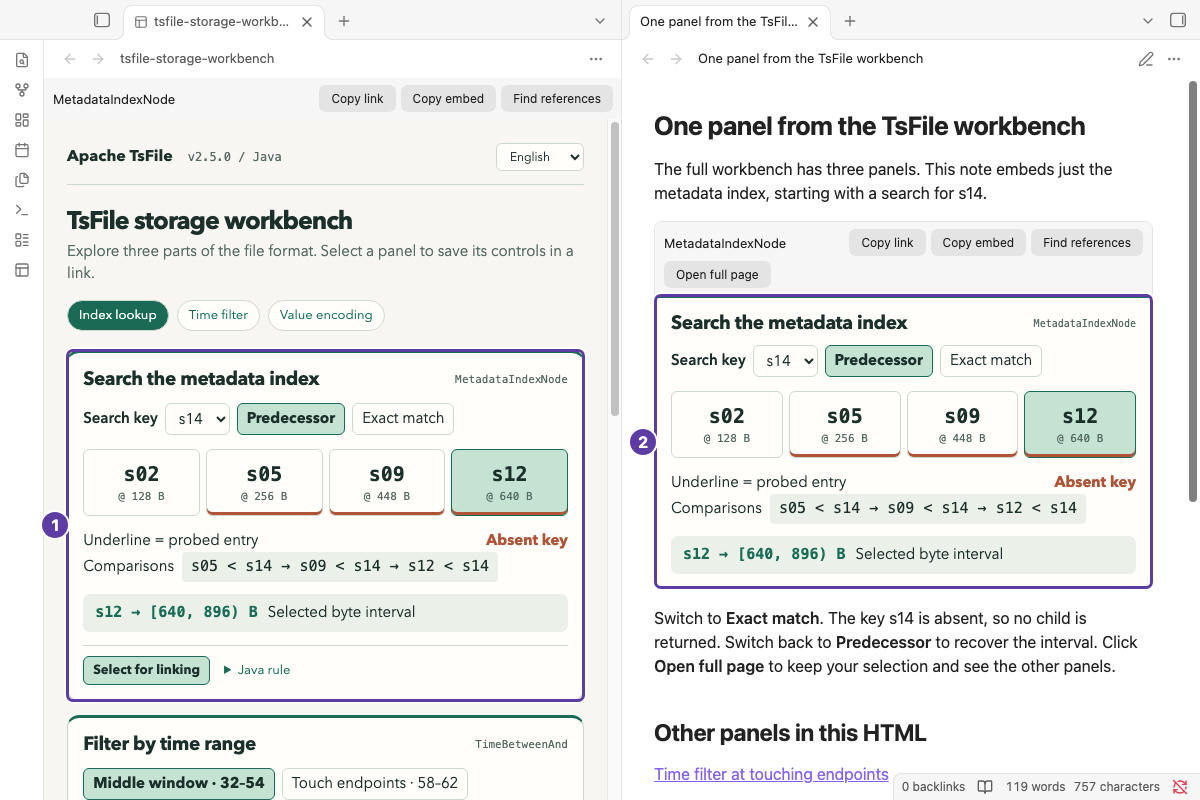
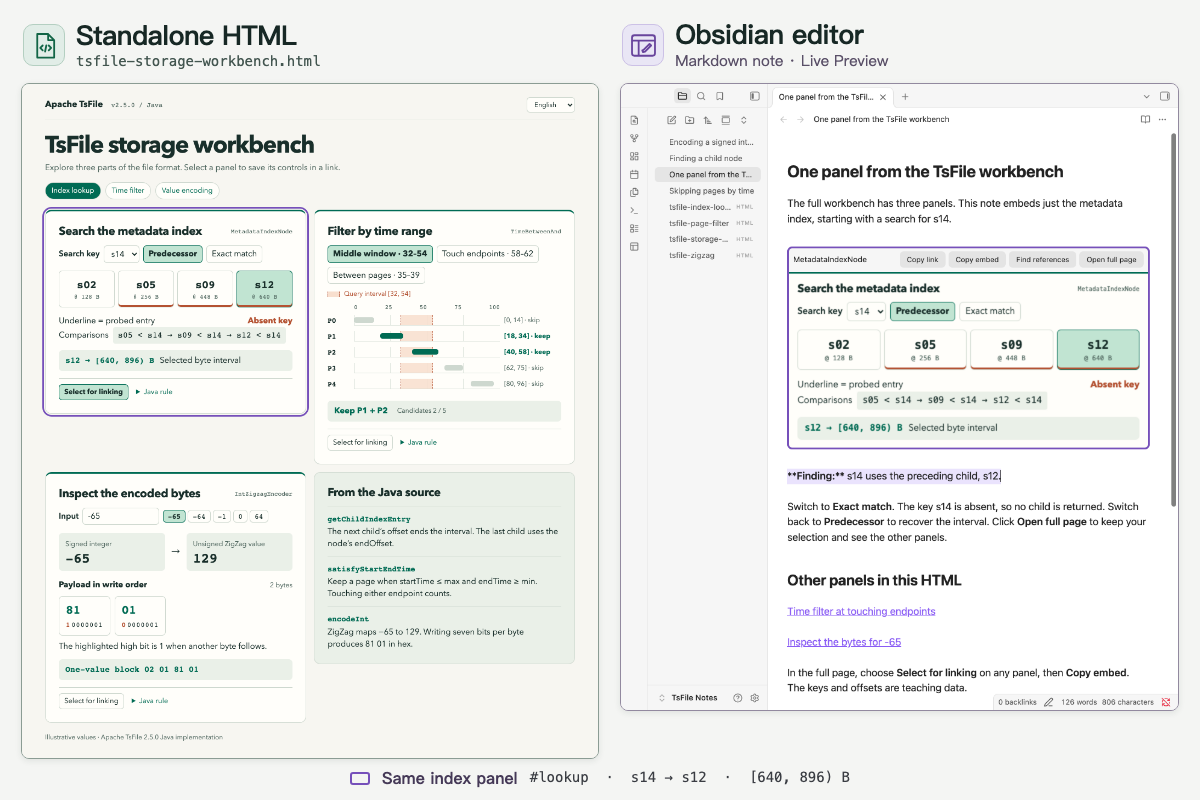
Show the complete HTML workbench beside an editable Obsidian note

diff --git a/examples/tsfile/tsfile-storage-workbench.html b/examples/tsfile/tsfile-storage-workbench.html
@@ -656,6 +656,34 @@
         display: none
       }
 
+      .source-notes {
+        padding: clamp(12px, 2.6vw, 24px);
+        border: 1px solid var(--line);
+        border-radius: 12px;
+        background: var(--soft)
+      }
+
+      .source-notes h2 {
+        font-size: clamp(19px, 2vw, 25px)
+      }
+
+      .source-notes dl {
+        margin: 12px 0 0
+      }
+
+      .source-notes dt {
+        margin-top: 12px;
+        padding-top: 12px;
+        border-top: 1px solid var(--line);
+        color: var(--accent);
+        font: 600 14px/1.4 var(--mono)
+      }
+
+      .source-notes dd {
+        margin: 3px 0 0
+      }
+
+      .inline .source-notes,
       .inline nav,
       .inline .panel-actions {
         display: none
@@ -800,6 +828,20 @@
             </details>
           </div>
         </section>
+        <aside class="source-notes" aria-labelledby="source-notes-title">
+          <h2 id="source-notes-title" data-en="From the Java source" data-zh="对照 Java 源码">From the Java source</h2>
+          <dl>
+            <dt>getChildIndexEntry</dt>
+            <dd data-en="The next child’s offset ends the interval. The last child uses the node’s endOffset."
+              data-zh="下一子项的偏移量是当前区间的上界。最后一项取节点的 endOffset。">The next child’s offset ends the interval. The last child uses the node’s endOffset.</dd>
+            <dt>satisfyStartEndTime</dt>
+            <dd data-en="Keep a page when startTime ≤ max and endTime ≥ min. Touching either endpoint counts."
+              data-zh="当 startTime ≤ max 且 endTime ≥ min 时保留该页。仅端点相接也算。">Keep a page when startTime ≤ max and endTime ≥ min. Touching either endpoint counts.</dd>
+            <dt>encodeInt</dt>
+            <dd data-en="ZigZag maps −65 to 129. Writing seven bits per byte produces 81 01 in hex."
+              data-zh="ZigZag 把 −65 映射成 129。每个字节承载七位数据，写出的十六进制载荷为 81 01。">ZigZag maps −65 to 129. Writing seven bits per byte produces 81 01 in hex.</dd>
+          </dl>
+        </aside>
       </div>
       <footer data-en="Illustrative values · Apache TsFile 2.5.0 Java implementation"
         data-zh="教学示例数据 · Apache TsFile 2.5.0 Java 实现">Illustrative values · Apache TsFile 2.5.0 Java implementation</footer>

diff --git a/README.md b/README.md
@@ -6,9 +6,11 @@ Embed an HTML page or one of its named interactive panels in an Obsidian note. C
 
 The [TsFile storage workbench](examples/tsfile/tsfile-storage-workbench.html) has three interactive panels for index lookup, time filtering and integer encoding. A note can embed any one of them.
 
-[![An Obsidian split view shows the complete TsFile workbench on the left and only its interactive metadata index embedded in a note on the right.](docs/screenshots/tour/en/one-panel.png)](docs/screenshots/tour/en/one-panel.png)
+[![The full HTML file in a browser, beside the Obsidian editor with its file explorer, an interactive index panel, and a selected sentence in Live Preview.](docs/screenshots/tour/en/one-panel.png)](docs/screenshots/tour/en/one-panel@2x.png)
 
-**①** On the full page, choose **Select for linking** on the index panel, then **Copy embed**. **②** In the note, the same panel opens at `s14` in predecessor mode. Try **Exact match** there, then **Open full page** to take that selection back to the full workbench.
+The purple outlines mark the same `#lookup` panel. In Obsidian’s Live Preview, you can switch between **Predecessor** and **Exact match**, then type your finding directly below the result.
+
+To copy another panel into a note, open the HTML file in Obsidian, choose **Select for linking** on that panel, then **Copy embed**.
 
 ```md
 ![[tsfile-storage-workbench.html#lookup?key=s14&mode=floor&lang=en]]

diff --git a/README.zh-CN.md b/README.zh-CN.md
@@ -6,9 +6,11 @@
 
 [TsFile 存储走读台](examples/tsfile/tsfile-storage-workbench.html)把索引查找、时间筛页、整数编码放在一个 HTML 文件里。笔记可以单独引用其中任何一个交互区。
 
-[![Obsidian 左侧是有三个交互区的完整 TsFile 走读台，右侧的 Markdown 正文单独嵌入了其中的索引面板，查找键同为 s14。](docs/screenshots/tour/zh/one-panel.png)](docs/screenshots/tour/zh/one-panel.png)
+[![左边是浏览器中从页眉到页脚的完整 HTML。右边是 Obsidian 的文件栏和实时预览编辑器，索引面板下方选中了刚写的观察。](docs/screenshots/tour/zh/one-panel.png)](docs/screenshots/tour/zh/one-panel@2x.png)
 
-**①** 左边整页里，在索引面板点「选为引用场景」，再点「复制嵌入」。**②** 右边正文只打开这个面板，查找键和模式都保留。在正文切到「精确匹配」，再点「打开整页」，刚才的选择也会跟过去。
+两处紫框标出同一个 `#lookup` 面板。在右边的 Obsidian 实时预览里，可以切换「取前驱」和「精确匹配」，再把观察直接写在结果下方。
+
+要引用另一块，在 Obsidian 里打开这个 HTML，点目标面板的「选为引用场景」，再点「复制嵌入」。
 
 ```md
 ![[tsfile-storage-workbench.html#lookup?key=s14&mode=floor&lang=zh]]
